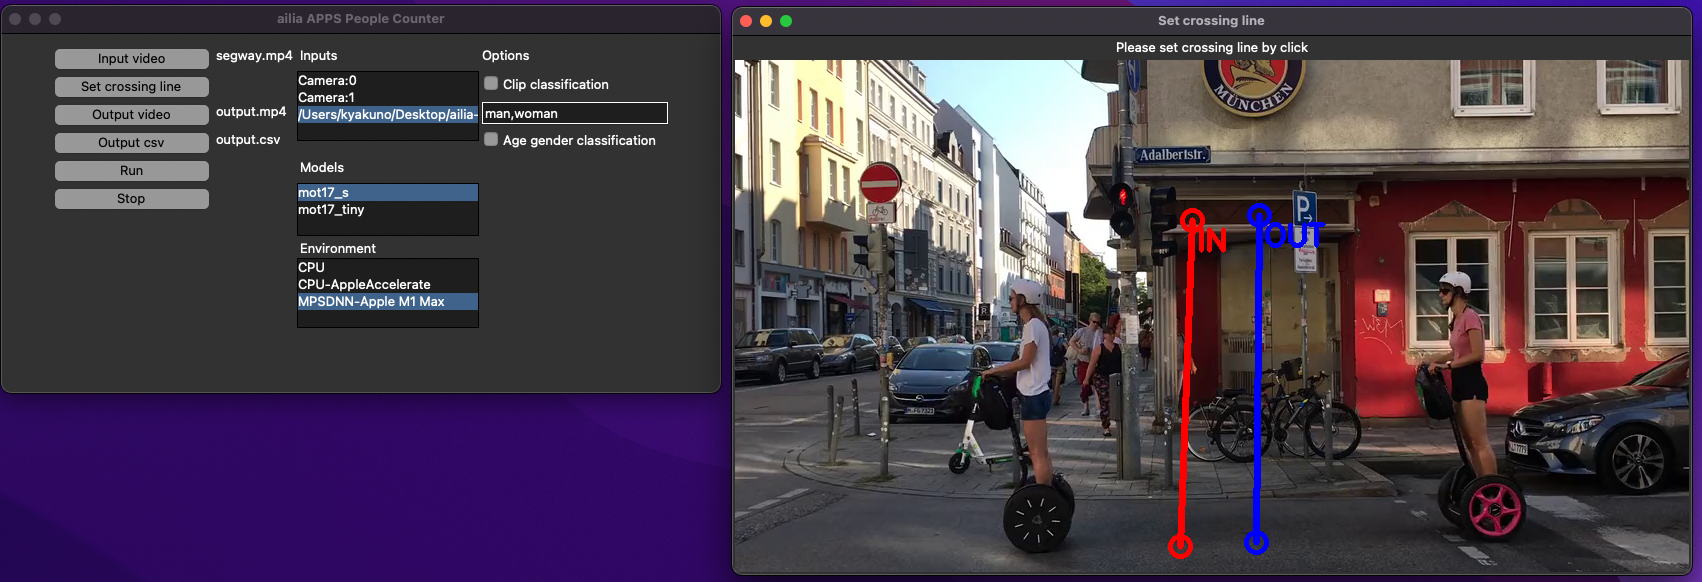
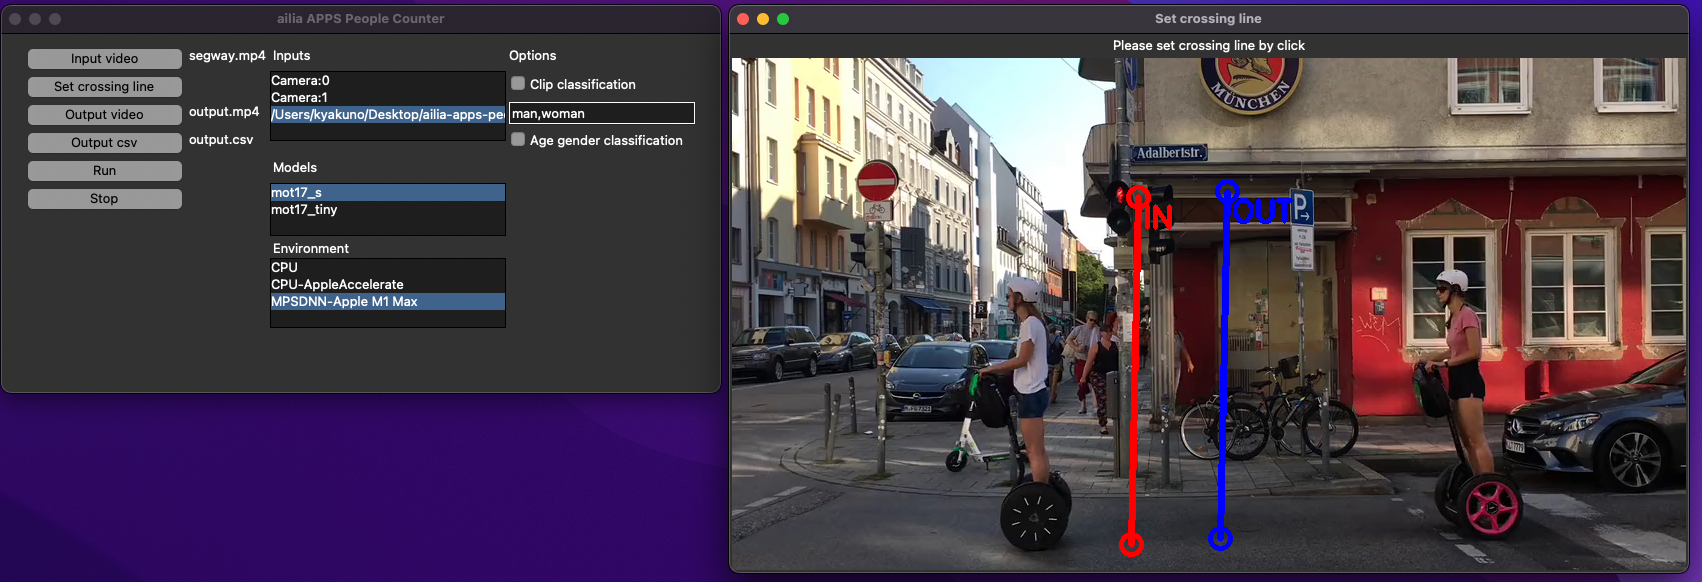
Adjust ui size

diff --git a/ailia-apps-people-counter.py b/ailia-apps-people-counter.py
@@ -343,7 +343,7 @@ def ui():
     labelInputVideoHeader.grid(row=0, column=2, sticky=tk.NW)
 
     listsInput = tk.StringVar(value=input_list)
-    ListboxInput = tk.Listbox(frame, listvariable=listsInput, width=30, height=4, selectmode="single", exportselection=False)
+    ListboxInput = tk.Listbox(frame, listvariable=listsInput, width=26, height=4, selectmode="single", exportselection=False)
     ListboxInput.bind("<<ListboxSelect>>", input_changed)
     ListboxInput.select_set(input_index)
     ListboxInput.grid(row=1, column=2, sticky=tk.NW, rowspan=3, columnspan=2)
@@ -351,8 +351,8 @@ def ui():
     lists = tk.StringVar(value=model_list)
     listEnvironment =tk.StringVar(value=env_list)
 
-    ListboxModel = tk.Listbox(frame, listvariable=lists, width=30, height=3, selectmode="single", exportselection=False)
-    ListboxEnvironment = tk.Listbox(frame, listvariable=listEnvironment, width=30, height=4, selectmode="single", exportselection=False)
+    ListboxModel = tk.Listbox(frame, listvariable=lists, width=26, height=3, selectmode="single", exportselection=False)
+    ListboxEnvironment = tk.Listbox(frame, listvariable=listEnvironment, width=26, height=4, selectmode="single", exportselection=False)
 
     ListboxModel.bind("<<ListboxSelect>>", model_changed)
     ListboxEnvironment.bind("<<ListboxSelect>>", environment_changed)
